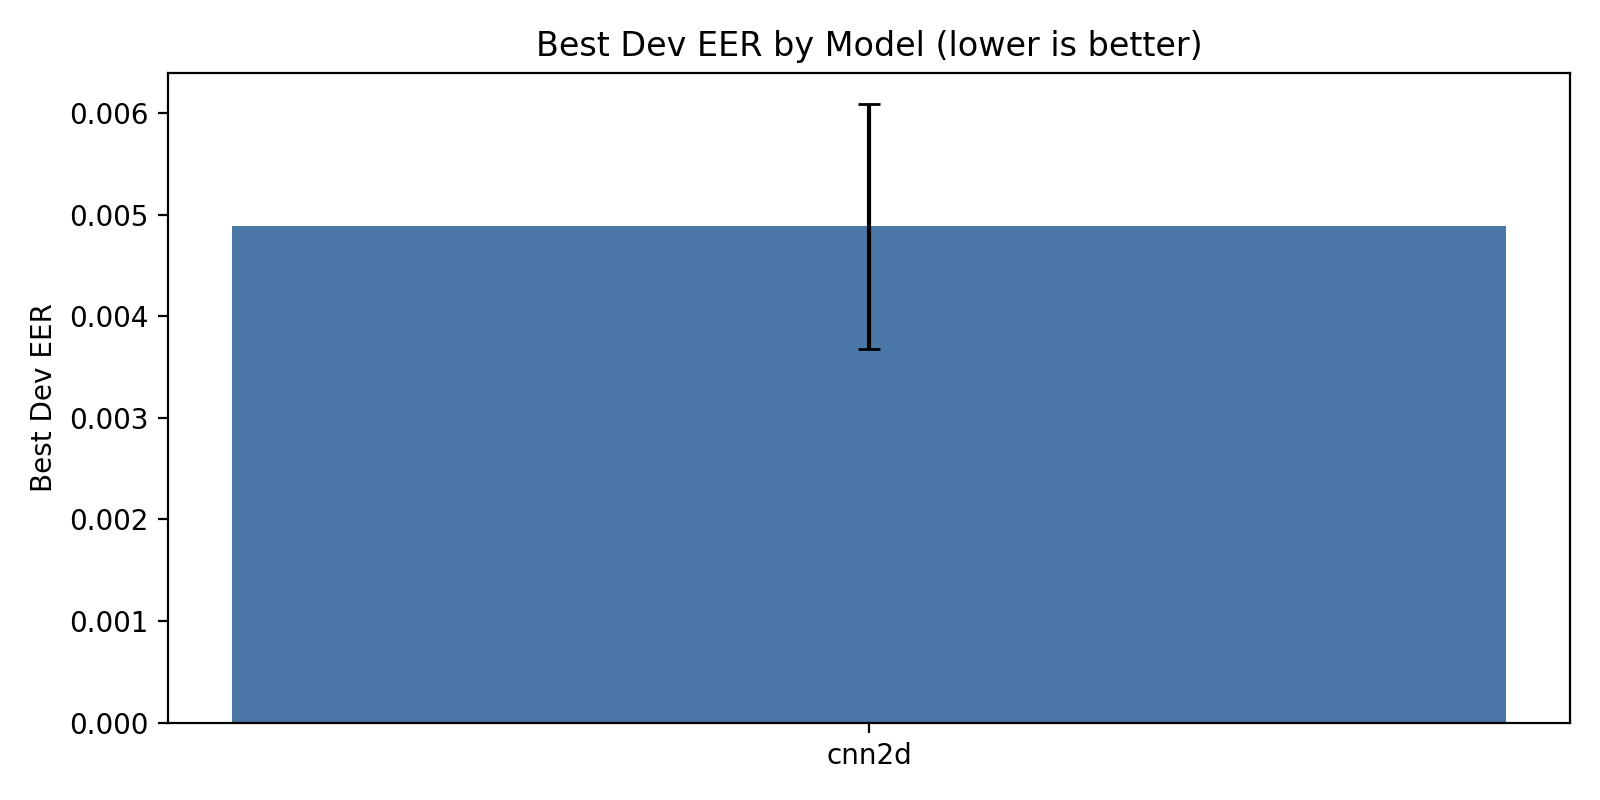
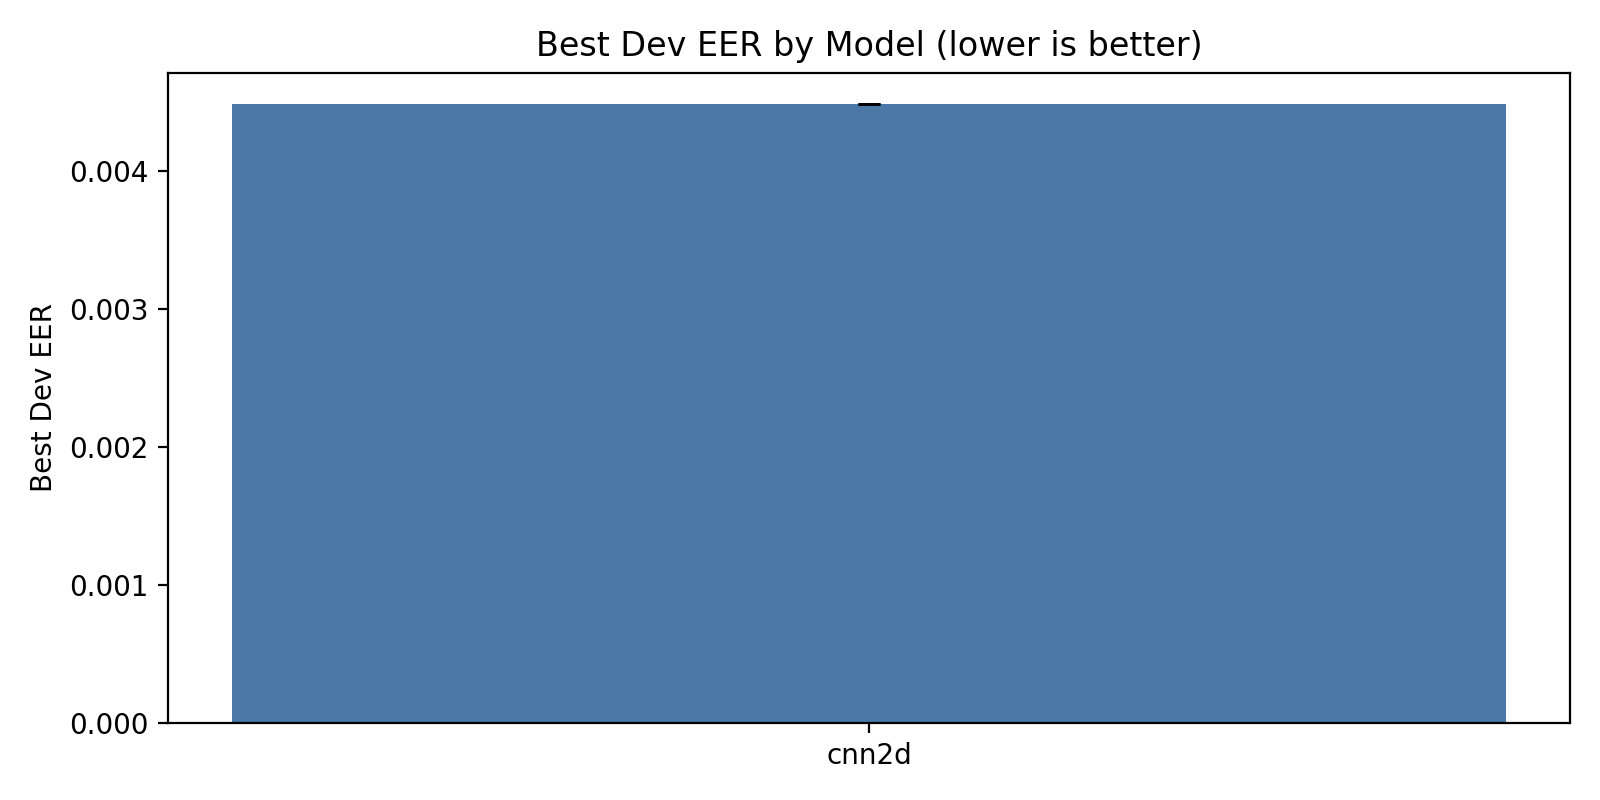
Update benchmark report, model rankings, and evaluation data; add new prediction files

diff --git a/results/benchmark_report.md b/results/benchmark_report.md
@@ -6,7 +6,7 @@
 - Learning rate: 0.001
 - Dropout (CNNs): 0.3
 - Pool bins (CNN1D): 1
-- Seeds: 0,1,2,3,4
+- Seeds: 42
 - Optimizer policy:
   - CNNs: AdamW with weight decay 0.01 by default (unless --weight-decay overrides)
   - MLPs: Adam unless --weight-decay > 0
@@ -15,18 +15,12 @@
 
 | Model | Mean EER | Std | Best EER | Best Epoch | Best Seed |
 |---|---:|---:|---:|---:|---:|
-| cnn2d | 0.0049 | 0.0012 | 0.0035 | 17 | 2 |
-
-## Seed Stability (cnn2d)
-- Mean best EER: 0.004889
-- Std dev: 0.001349
-- Range: 0.003482 to 0.006498
-- Best epoch varies by seed (5, 8, 10, 11, 17), which is normal; early stopping should pick the right checkpoint.
+| cnn2d | 0.0045 | 0.0000 | 0.0045 | 10 | 42 |
 
 ## Overfitting Signals (heuristic)
 First epoch where average train loss keeps decreasing while average dev loss rises for two consecutive steps.
 
-- cnn2d: potential overfitting starts around epoch 10
+- cnn2d: potential overfitting starts around epoch 11
 
 ## Plots
 - combined: `results/plots/combined_losses.png`
